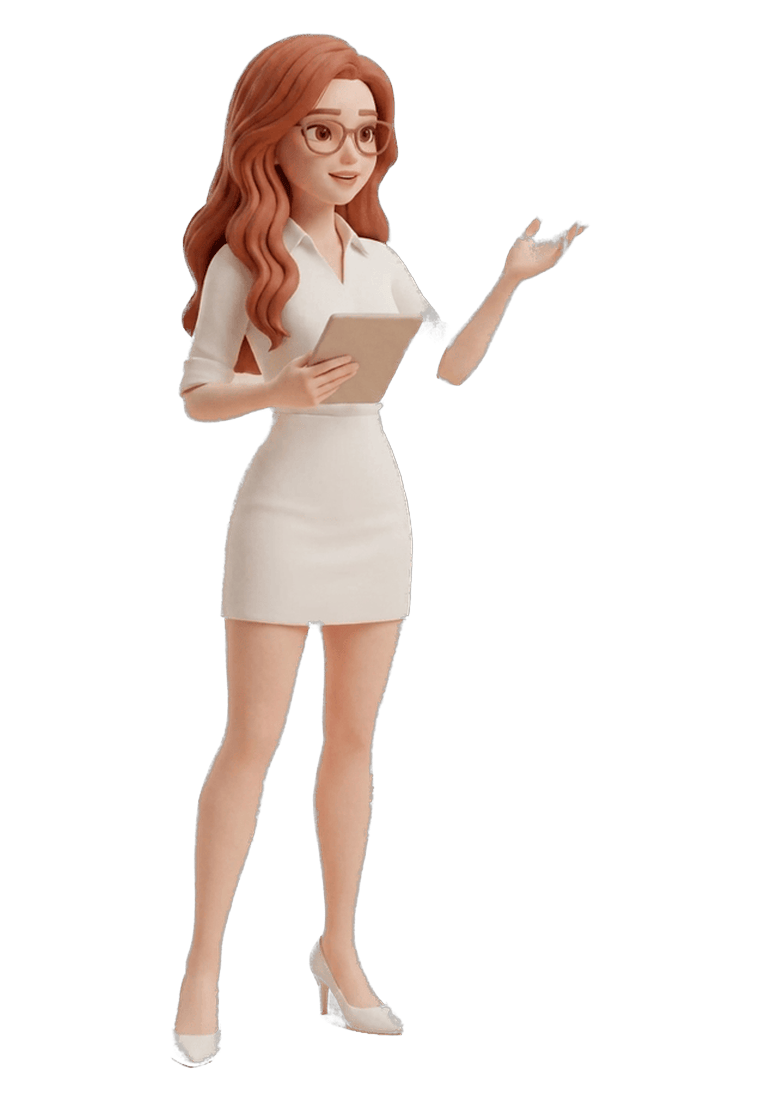
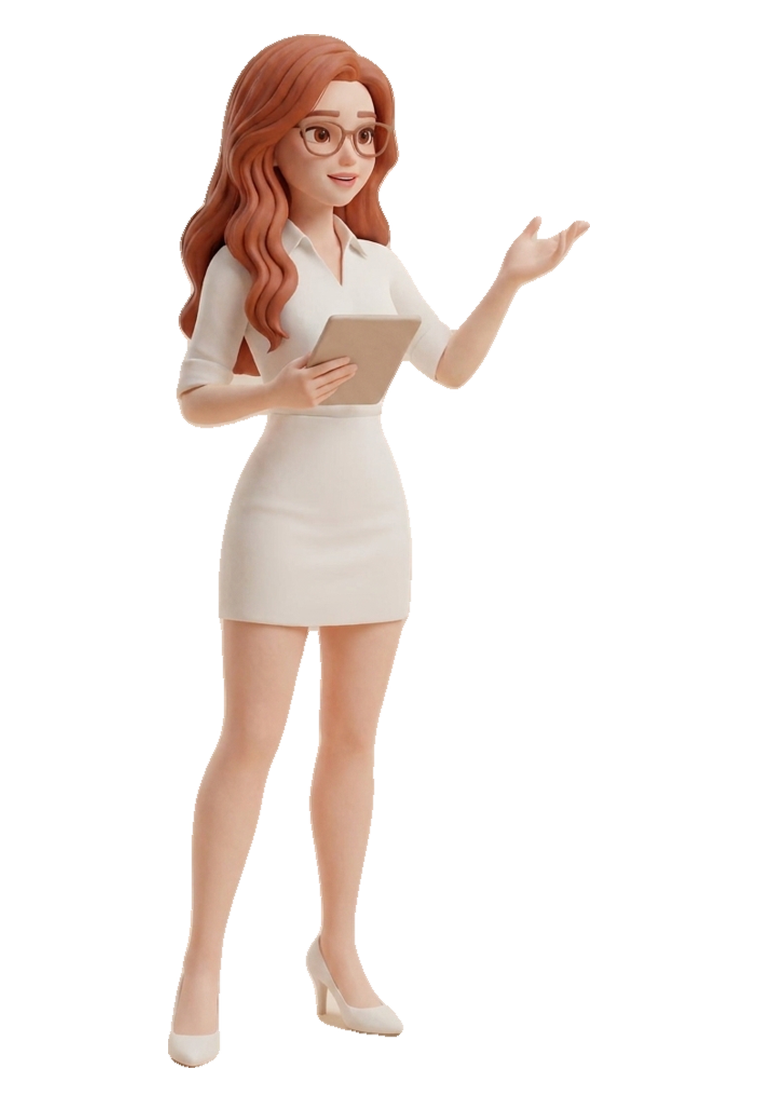
Tách nền lại Lumina AI bản vest: cánh tay đưa ra bị đứt rời khỏi vai (#236)
Hai tệp lumina-vest.png và advisors/lumina-vest-cut.png đều hỏng giống nhau:
cẳng tay và bàn tay đưa ra lơ lửng, không nối với vai – phần tay áo và bắp
tay bị ăn mất hẳn. Các ngón tay cũng bị ăn mòn loang lổ, quanh mép còn lấm
tấm trắng. Đây là vết của lần tách nền bằng rembg: nền kem sát màu da nên
mô hình cắt luôn cả cánh tay.

advisors/lumina-vest-cut.png chính là chân dung của cố vấn «Lumina AI» dùng
trong game, trang giới thiệu và thư viện, nên lỗi này hiện ở nhiều nơi.

Cách sửa: lấy lại ảnh gốc còn nền 768x1145 từ lịch sử kho mã (commit
5b61042), rồi hợp nhất mặt nạ của bốn mô hình – u2net, u2net_human_seg,
isnet-general-use, birefnet-general. Mỗi mô hình cắt hụt ở một chỗ khác nhau
trên cánh tay nên chỗ này hụt thì mô hình kia bù. Độ phủ vùng cánh tay tăng
từ 14,5% (u2net đơn lẻ) lên 19,7%. Sau đó lấp lỗ, giữ mảnh liên thông lớn
nhất, làm mềm viền 1,5px và khử viền kem bằng cách thay màu mỗi điểm không
đặc bằng màu điểm đặc gần nhất.

Giữ nguyên kích thước ảnh và vị trí nhân vật trong khung như tệp cũ nên
không trang nào phải sửa CSS.

Đã quét toàn bộ ảnh tách nền tìm mảnh rời đáng ngờ: các mảnh còn lại đều là
chi tiết có chủ đích – nốt nhạc bay, ngôi sao, biển tên đối thủ – không phải
bộ phận cơ thể bị đứt.

Nâng bộ nhớ đệm bizon-v206 -> bizon-v207.

diff --git a/js/error-log.js b/js/error-log.js
@@ -8,7 +8,7 @@
  * Tắt backend (enabled=false) là tắt luôn giám sát lỗi. */
 (function () {
   const QKEY = 'bizon-error-queue';
-  const APP_VER = 'bizon-v206'; // khớp CACHE trong sw.js – biết lỗi thuộc phiên bản nào
+  const APP_VER = 'bizon-v207'; // khớp CACHE trong sw.js – biết lỗi thuộc phiên bản nào
   const MAX_PER_LOAD = 5;       // chống bão lỗi lặp: tối đa 5 bản ghi mỗi lượt tải trang
   let sent = 0;
   const seen = new Set();

diff --git a/sw.js b/sw.js
@@ -1,7 +1,7 @@
 /* BizOn Bật Nghiệp 2026 – Service Worker (offline app shell)
  * © 2026 Đỗ Thùy Hương & Phan Anh Tú. Bảo lưu mọi quyền. */
 
-const CACHE = 'bizon-v206';
+const CACHE = 'bizon-v207';
 const SHELL = [
   './',
   './index.html',
